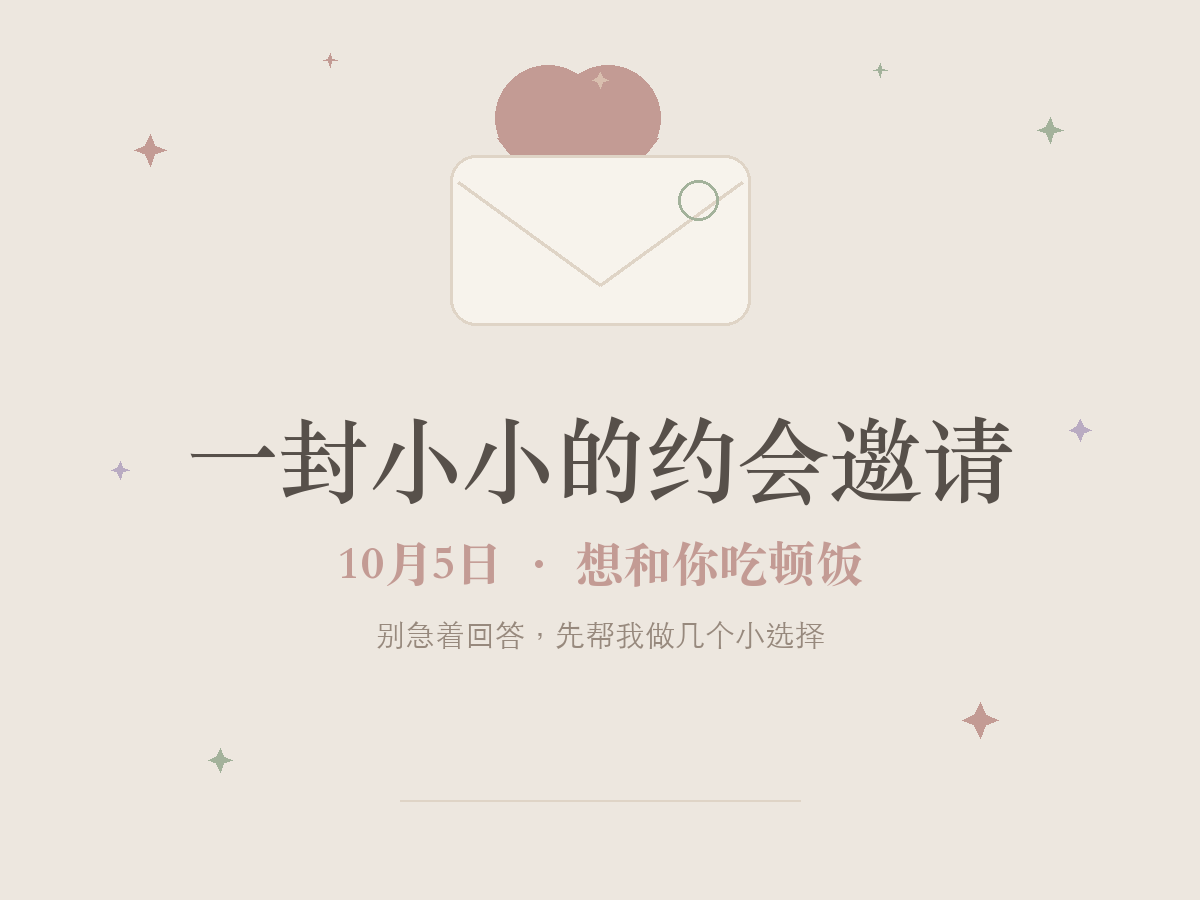
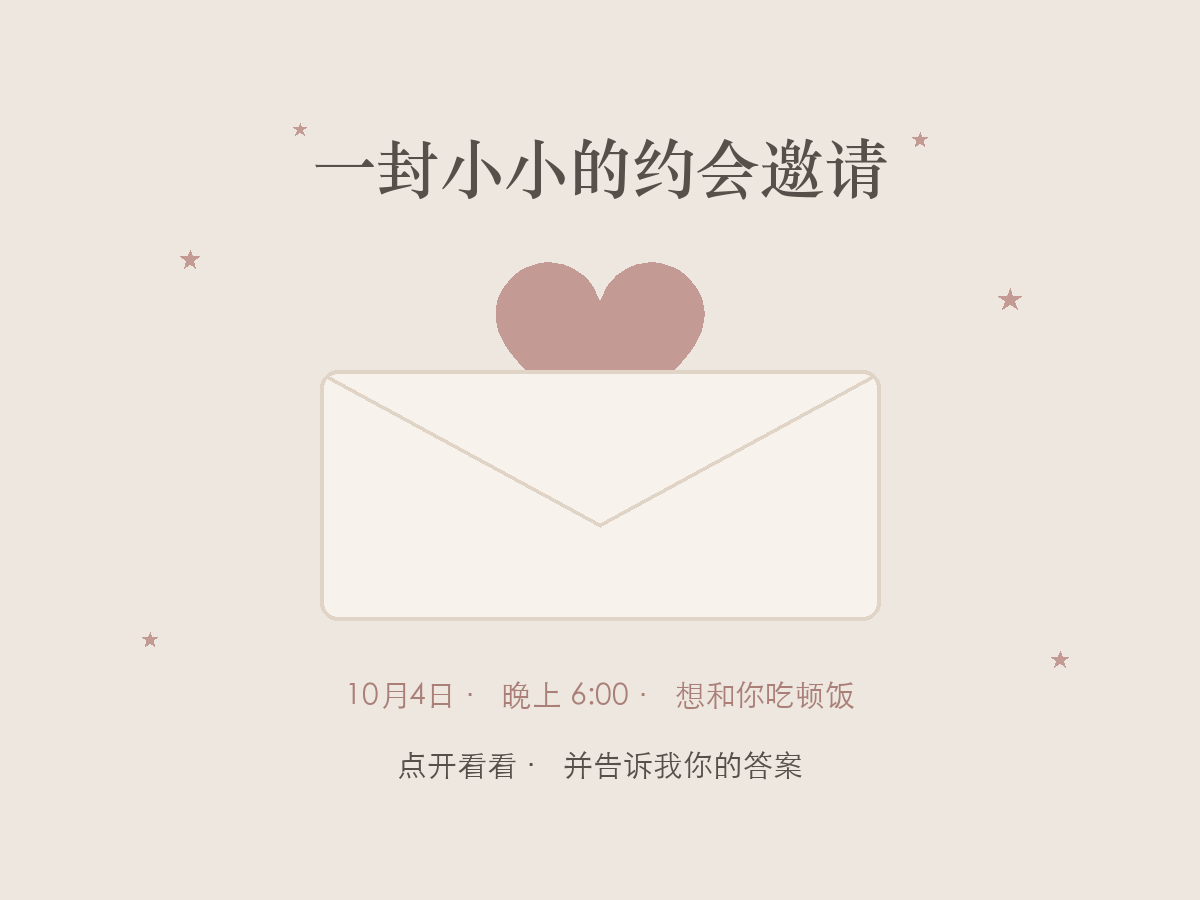
时间改为10月4日，海报二维码日期同步

diff --git a/index.html b/index.html
@@ -18,7 +18,7 @@
 <meta name="theme-color" content="#EDE7DF">
 <!-- 微信/QQ 分享卡片的标题、简介和封面图 -->
 <meta property="og:title" content="一封小小的约会邀请">
-<meta property="og:description" content="嗨，有个问题想问你很久了——10月5日，愿意和我一起吃顿饭吗？">
+<meta property="og:description" content="嗨，有个问题想问你很久了——10月4日，愿意和我一起吃顿饭吗？">
 <meta property="og:image" content="https://wangharui.github.io/invite/cover.png">
 <meta property="og:type" content="website">
 <title>一封小小的约会邀请</title>
@@ -394,7 +394,7 @@ button:focus-visible {
     </div>
     <p class="eyebrow rise" style="--d:.15s">见 字 如 面</p>
     <h1 class="rise" style="--d:.25s">一封小小的<br>约会邀请</h1>
-    <p class="lead rise" style="--d:.35s">嗨，有个问题想问你很久了——<br>10月5日，愿意和我一起吃顿饭吗？</p>
+    <p class="lead rise" style="--d:.35s">嗨，有个问题想问你很久了——<br>10月4日，愿意和我一起吃顿饭吗？</p>
     <p class="lead rise" style="--d:.45s;color:var(--ink-soft)">别急着回答，先帮我做几个小选择，<br>我好带你去最对味的地方 😊</p>
     <button class="cta rise" style="--d:.55s" id="startBtn" type="button">开始选择 →</button>
   </section>
@@ -483,7 +483,7 @@ button:focus-visible {
    ════════════════════════════════════════════════════════════ */
 
 /* ══【改成你自己的】第 1 处：约会时间 ═══════════════════════ */
-const DATE_TIME = '10月5日 · 晚上 6:00';
+const DATE_TIME = '10月4日 · 晚上 6:00';
 
 /* ══【改成你自己的】第 2 处：餐厅信息 ═══════════════════════
    下面 addr 现在都是同一个占位地址，把它换成真实地址即可。

diff --git a/约会邀请函.html b/约会邀请函.html
@@ -18,7 +18,7 @@
 <meta name="theme-color" content="#EDE7DF">
 <!-- 微信/QQ 分享卡片的标题、简介和封面图 -->
 <meta property="og:title" content="一封小小的约会邀请">
-<meta property="og:description" content="嗨，有个问题想问你很久了——10月5日，愿意和我一起吃顿饭吗？">
+<meta property="og:description" content="嗨，有个问题想问你很久了——10月4日，愿意和我一起吃顿饭吗？">
 <meta property="og:image" content="https://wangharui.github.io/invite/cover.png">
 <meta property="og:type" content="website">
 <title>一封小小的约会邀请</title>
@@ -394,7 +394,7 @@ button:focus-visible {
     </div>
     <p class="eyebrow rise" style="--d:.15s">见 字 如 面</p>
     <h1 class="rise" style="--d:.25s">一封小小的<br>约会邀请</h1>
-    <p class="lead rise" style="--d:.35s">嗨，有个问题想问你很久了——<br>10月5日，愿意和我一起吃顿饭吗？</p>
+    <p class="lead rise" style="--d:.35s">嗨，有个问题想问你很久了——<br>10月4日，愿意和我一起吃顿饭吗？</p>
     <p class="lead rise" style="--d:.45s;color:var(--ink-soft)">别急着回答，先帮我做几个小选择，<br>我好带你去最对味的地方 😊</p>
     <button class="cta rise" style="--d:.55s" id="startBtn" type="button">开始选择 →</button>
   </section>
@@ -483,7 +483,7 @@ button:focus-visible {
    ════════════════════════════════════════════════════════════ */
 
 /* ══【改成你自己的】第 1 处：约会时间 ═══════════════════════ */
-const DATE_TIME = '10月5日 · 晚上 6:00';
+const DATE_TIME = '10月4日 · 晚上 6:00';
 
 /* ══【改成你自己的】第 2 处：餐厅信息 ═══════════════════════
    下面 addr 现在都是同一个占位地址，把它换成真实地址即可。
